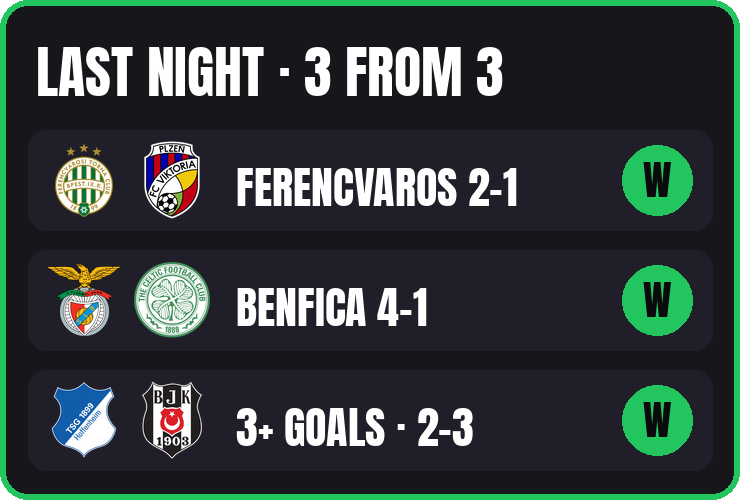
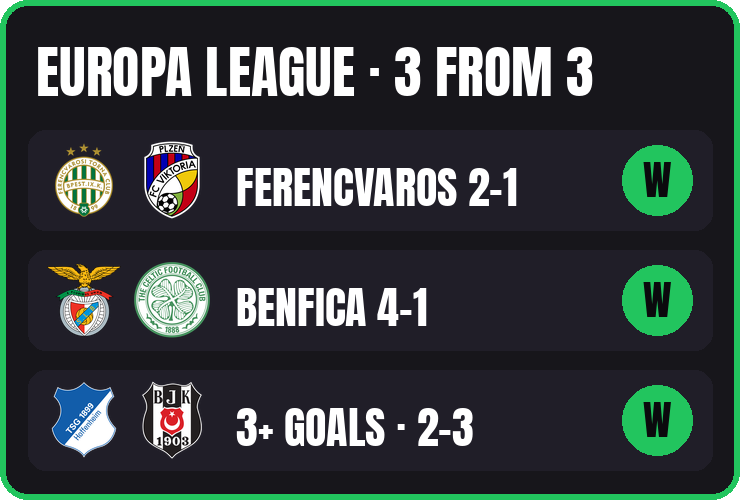
np-004: 'Europa League' instead of 'last night'; note owner time zone (ET)
Claude-Session: https://claude.ai/code/session_01577joA6vjLNSCZnympgnAj

Changed region(s): [[0.0622, 0.09, 0.8081, 0.21]]

diff --git a/CLAUDE.md b/CLAUDE.md
@@ -1,7 +1,8 @@
 # Ninety Plus - soccer picks shorts
 
 Faceless 9:16 picks videos (Shorts / TikTok / Reels) for the Premier League, LaLiga, Bundesliga, Serie A and MLS,
-built in Remotion from one edit file per video. Owner: mirtogianfranco. Brand: **Ninety Plus**, stoppage-time red.
+built in Remotion from one edit file per video. Owner: mirtogianfranco (US Eastern time: give kick-offs and deadlines in ET; avoid "last night"/"tonight" in
+on-screen copy, viewers are in many time zones). Brand: **Ninety Plus**, stoppage-time red.
 
 **Before touching any edit file, voiceover or gate: load the `ninetyplus-build` skill** (`.claude/skills/`). It holds
 the binding editorial rules. This file is the map; the skill is the law.

diff --git a/video-projects/np-004/publishing/kit.md b/video-projects/np-004/publishing/kit.md
@@ -12,7 +12,7 @@ Ferencvaros 2-1, Benfica 4-1, Hoffenheim 2-3 Besiktas (5 goals). Record: 5-1. We
 **YouTube Shorts title:** 3 from 3 in the Europa League 💥 (record now 5-1)
 
 ## Facebook
-Three from three in the Europa League last night. Record 5-1. #EuropaLeague #UEL #football
+Three from three in the Europa League. Record 5-1. #EuropaLeague #UEL #football
 
 ## Sources
 - ESPN full-time feed: Ferencvaros 2-1 Viktoria Plzen, Benfica 4-1 Celtic, Hoffenheim 2-3 Besiktas
